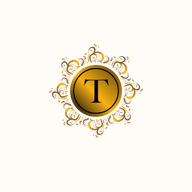
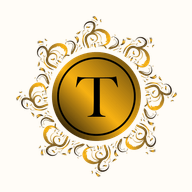
Logotype : détourage pour le balisage et les icônes
Les deux fichiers de marque livrés sont des carrés dont le dessin n'occupe
que 26 % pour le logotype complet et 41 % pour le symbole ; le reste est du
vide transparent. Tout ce qui les met à l'échelle — l'onglet du navigateur,
l'icône d'application, le logo que Google affiche dans son encadré de
connaissance — réduisait donc surtout du vide.

scripts/brand-assets.mjs détoure le dessin et le repose avec une marge
choisie. Le logotype des données structurées passe en 648x345 sur fond
blanc opaque, cadré au dessin : Google compose le logo sur ses propres
surfaces, pas toujours claires, où une transparence se remplit parfois de
noir. Les icônes gagnent de 15 % à 38 % de surface dessinée — le T du
médaillon devient lisible à 16 px.

Les originaux ne sont pas touchés.

Changed region(s): [[0.0625, 0.0625, 0.9375, 0.9375]]

diff --git a/lib/structured-data.ts b/lib/structured-data.ts
@@ -68,12 +68,21 @@ export function buildJewelryStoreSchema({
       absoluteUrl(MEDIA.alliances.src),
       absoluteUrl(MEDIA.rachatPesee.src),
     ],
+    /**
+     * Logotype détouré, sur fond blanc opaque.
+     *
+     * L'original livré par la maison est un carré de 1772 px dont le dessin
+     * n'occupe que 26 % — Google, qui met le logo à l'échelle, n'y verrait
+     * surtout du vide. `scripts/brand-assets.mjs` en dérive cette version
+     * cadrée au dessin, sans transparence : les surfaces sur lesquelles Google
+     * compose le logo ne sont pas toujours claires.
+     */
     logo: {
       '@type': 'ImageObject',
       '@id': SCHEMA_ID.logo,
-      url: absoluteUrl('/brand/thiam-logo.png'),
-      width: 1772,
-      height: 1772,
+      url: absoluteUrl('/brand/logo-marque.png'),
+      width: 648,
+      height: 345,
       caption: SITE.name,
     },
     foundingDate: String(SITE.foundedYear),

diff --git a/README.md b/README.md
@@ -228,6 +228,12 @@ structurées en découlent tous.
   un contenu qui ne reprend pas l'accueil et ses propres questions fréquentes.
   Une section d'accueil ne se positionne pas sur « rachat d'or Cotonou » : il
   faut une adresse, un titre et un contenu propres.
+- **Le logotype de la maison partout où un moteur le lit** : propriété `logo`
+  des données structurées (celle que Google reprend dans son encadré de
+  connaissance), favicon, icône d'application iOS et Android, et vignettes de
+  partage. Les deux fichiers livrés étant des carrés dont le dessin n'occupe
+  que 26 % et 41 %, `npm run brand` en dérive des versions détourées : sans
+  cela, tout ce qui met le logo à l'échelle réduit surtout du vide.
 - `sitemap.xml` avec le visuel principal de chaque page, `robots.txt` fermant
   `/admin` et `/api`.
 
